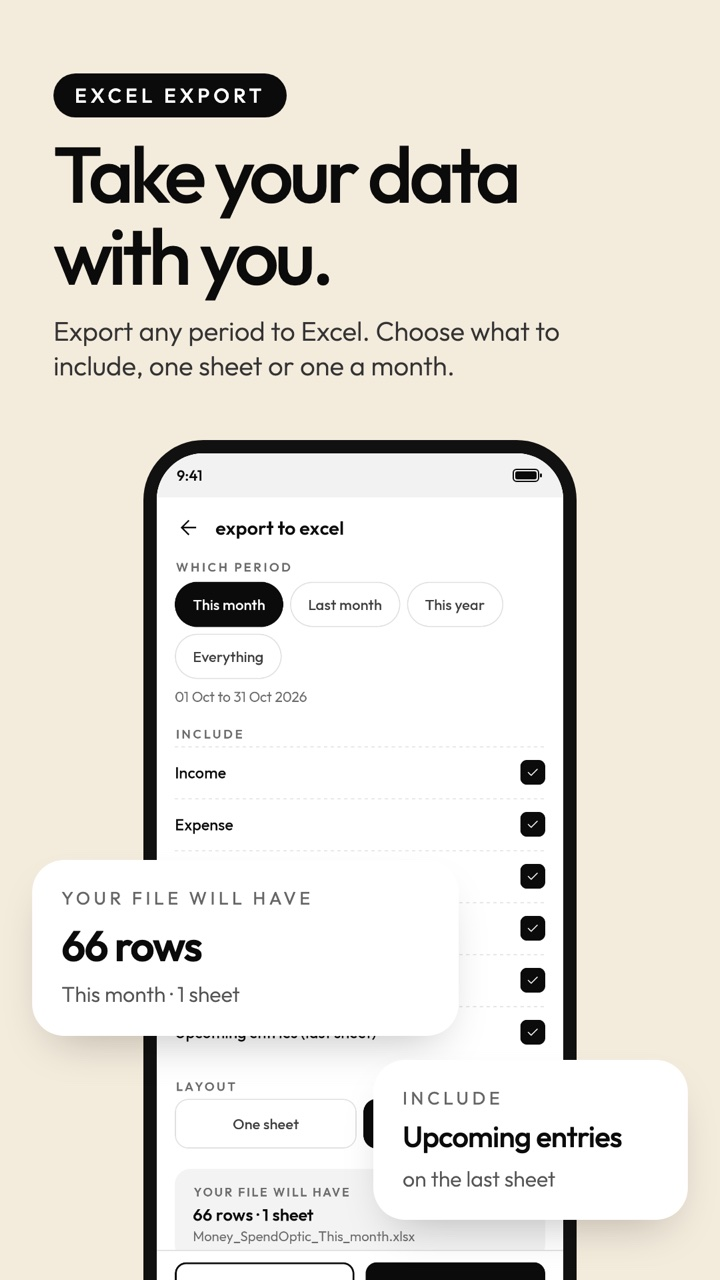
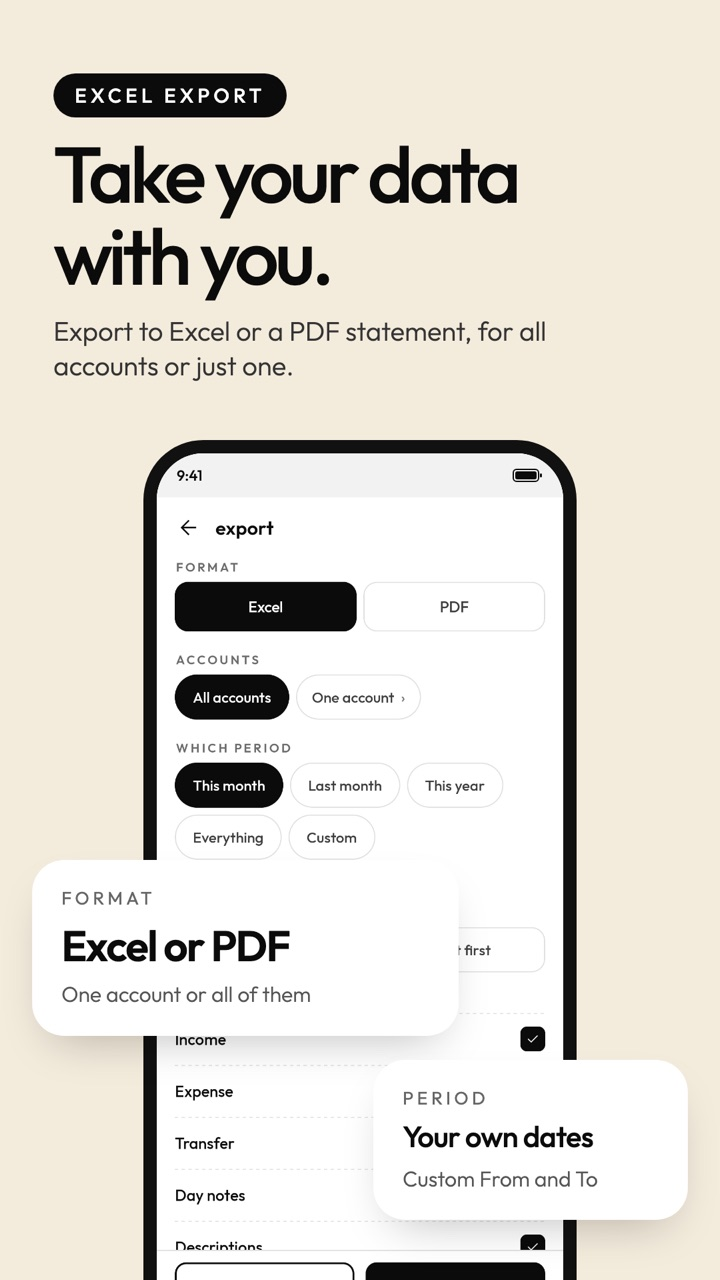
Excel import and export pictures retaken from the Demo app; captions mention account numbers, PDF statements and custom dates

diff --git a/index.html b/index.html
@@ -379,8 +379,8 @@ footer .data{max-width:1240px;margin:0 auto 18px;font-size:13px;line-height:1.6;
 <li><img src="features/23-category-icons.jpg" width="300" height="533" alt="Category icons: Pick a colour icon for each category, or add your own picture." loading="lazy" decoding="async"><h3>Category icons</h3><p>Pick a colour icon for each category, or add your own picture.</p></li>
 <li><img src="features/13-notes.jpg" width="300" height="533" alt="Notes: Coloured memos for days, with pinned notes." loading="lazy" decoding="async"><h3>Notes</h3><p>Coloured memos for days, with pinned notes.</p></li>
 <li><img src="features/14-search-and-filters.jpg" width="300" height="533" alt="Search and filters: Search notes and descriptions. Filter by type, account, category, amount and period." loading="lazy" decoding="async"><h3>Search and filters</h3><p>Search notes and descriptions. Filter by type, account, category, amount and period.</p></li>
-<li><img src="features/21-excel-import.jpg" width="300" height="533" alt="Excel import: Bring entries in from an Excel or CSV sheet, step by step: file, columns, review and done. Rows already in the app are skipped." loading="lazy" decoding="async"><h3>Excel import</h3><p>Bring entries in from an Excel or CSV sheet, step by step: file, columns, review and done. Rows already in the app are skipped.</p></li>
-<li><img src="features/22-excel-export.jpg" width="300" height="533" alt="Excel export: Export any period to Excel: choose what to include, one sheet or one a month, with upcoming entries on a last sheet if you want." loading="lazy" decoding="async"><h3>Excel export</h3><p>Export any period to Excel: choose what to include, one sheet or one a month, with upcoming entries on a last sheet if you want.</p></li>
+<li><img src="features/21-excel-import.jpg" width="300" height="533" alt="Excel import: Bring entries in from an Excel or CSV sheet, step by step: file, columns, review and done. Account numbers tell same-name accounts apart, and rows already in the app are skipped." loading="lazy" decoding="async"><h3>Excel import</h3><p>Bring entries in from an Excel or CSV sheet, step by step: file, columns, review and done. Account numbers tell same-name accounts apart, and rows already in the app are skipped.</p></li>
+<li><img src="features/22-excel-export.jpg" width="300" height="533" alt="Excel export: Export to Excel or a PDF statement (Premium), for all accounts or just one, with the dates you choose. Pick what to include; Excel can be one sheet or one a month." loading="lazy" decoding="async"><h3>Excel export</h3><p>Export to Excel or a PDF statement (Premium), for all accounts or just one, with the dates you choose. Pick what to include; Excel can be one sheet or one a month.</p></li>
 <li><img src="features/25-photos.jpg" width="300" height="533" alt="Photos and files: Export photos and attachments with year and month folders, and clean up files no entry uses." loading="lazy" decoding="async"><h3>Photos and files</h3><p>Export photos and attachments with year and month folders, and clean up files no entry uses.</p></li>
 <li><img src="features/15-backup-and-privacy.jpg" width="300" height="533" alt="Backup and privacy: Backup file, your own Google Drive and Excel import. Data stays on your phone." loading="lazy" decoding="async"><h3>Backup and privacy</h3><p>Backup file, your own Google Drive and Excel import. Data stays on your phone.</p></li>
 </ul>
